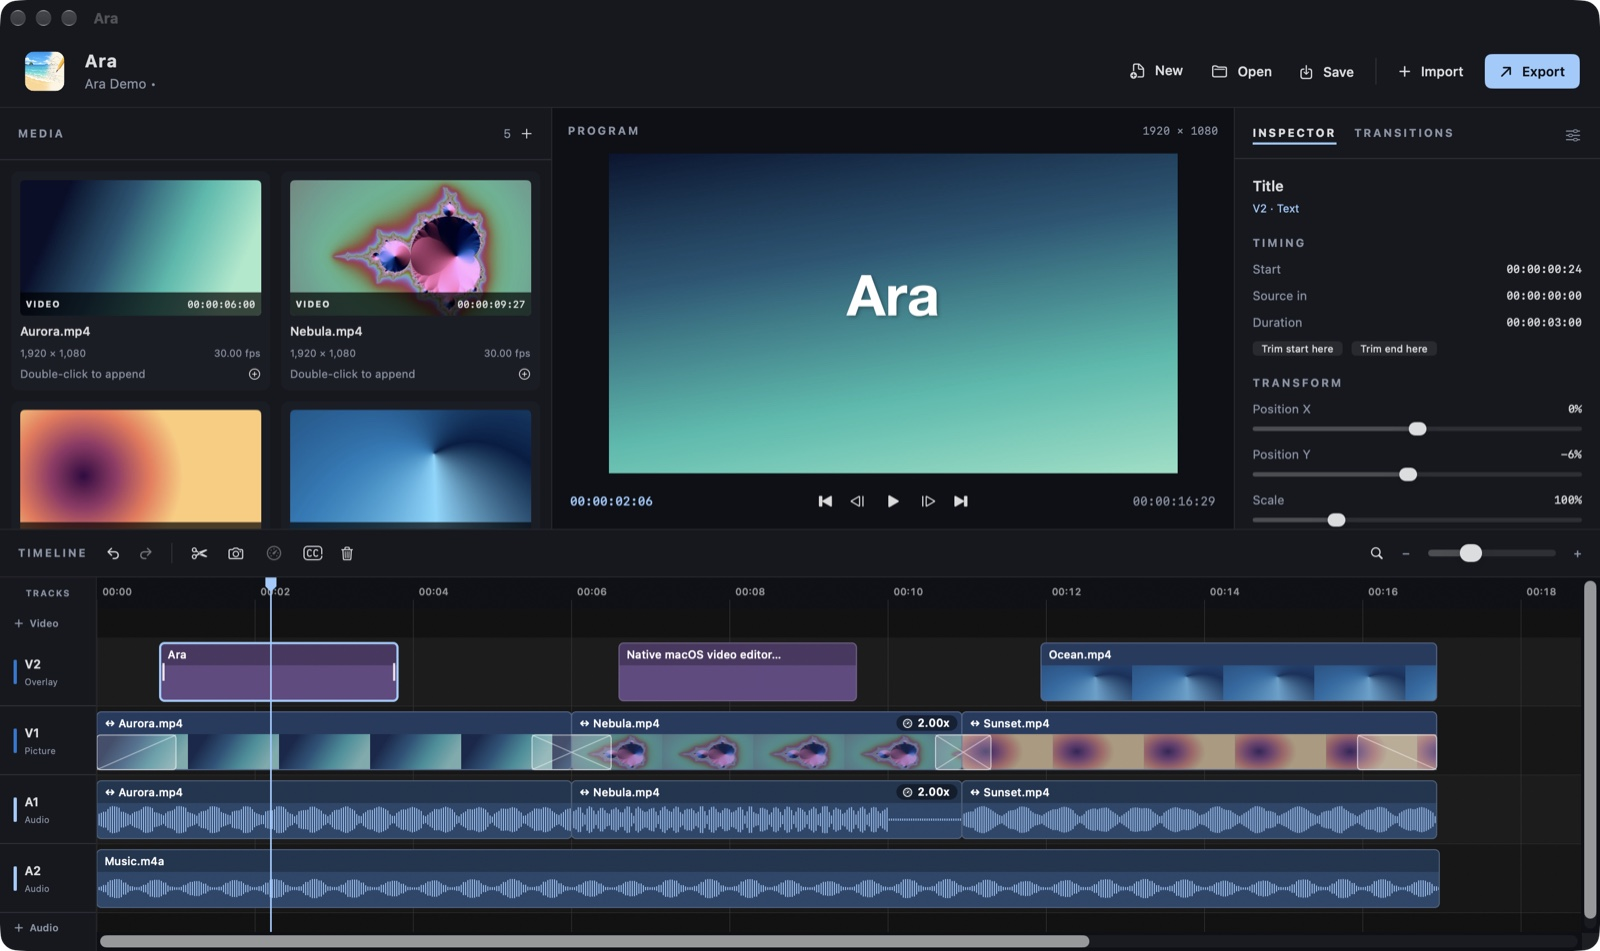
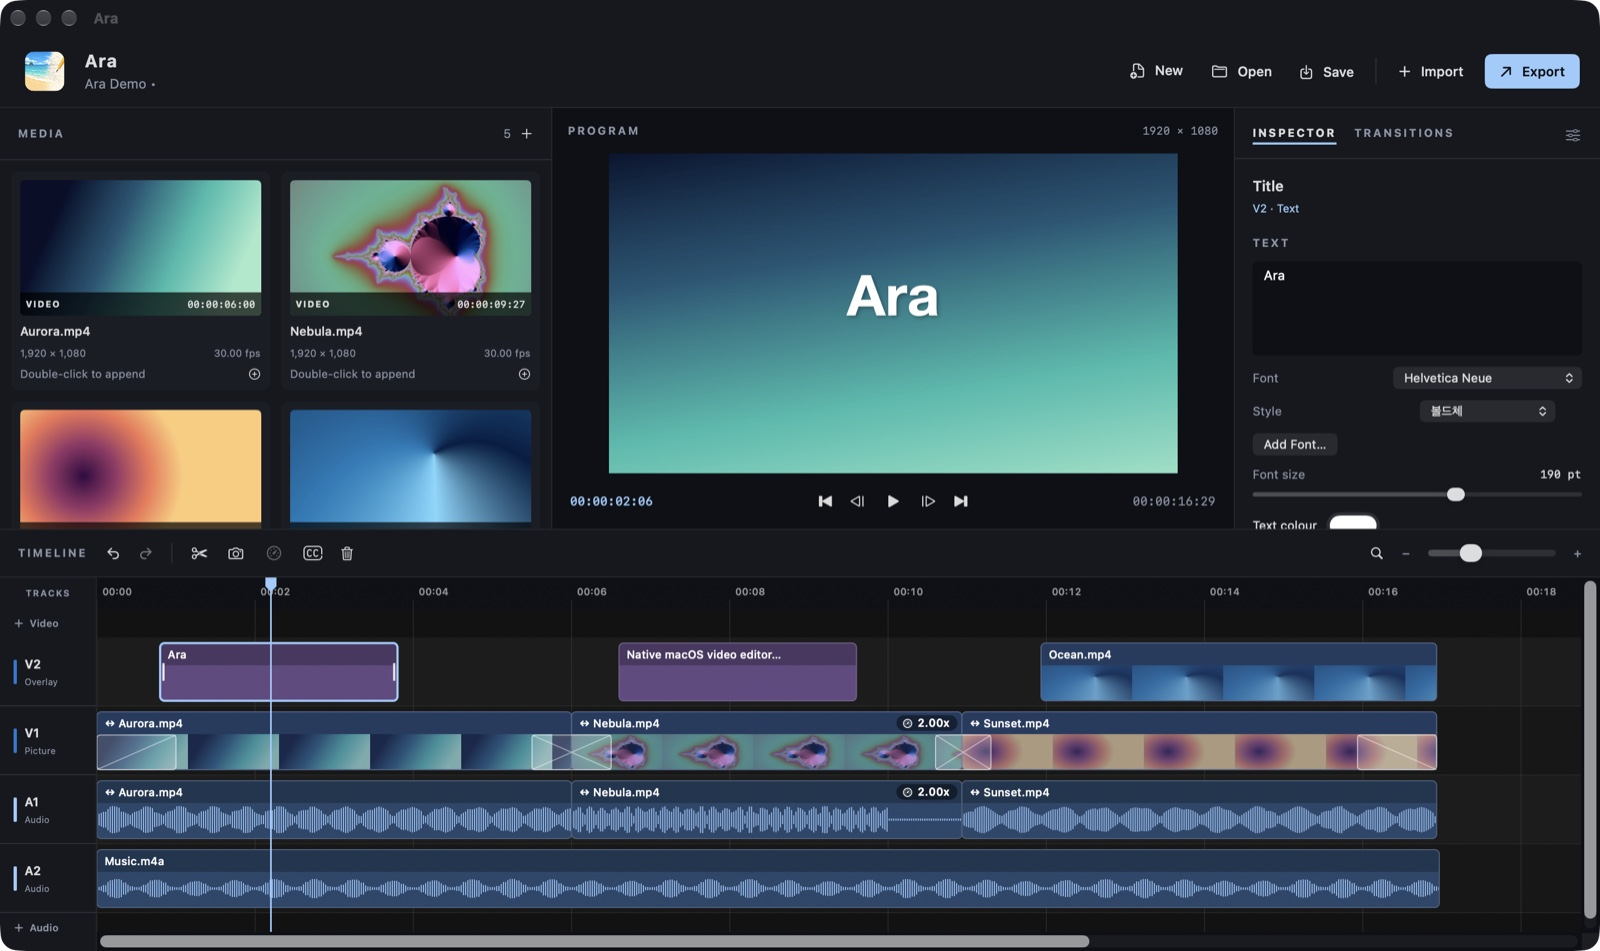
Update the README for multiple selection, rotation and the new shortcuts
Documents Shift-drag/Shift-click selection, group move, Cmd-X/Cmd-A, the
rotation handle, Return to finish a transform, timeline page turning and the
font menu previews; refreshes the editor, title and transform screenshots and
the test counts.

Changed region(s): [[0.7812, 0.244, 0.9375, 0.5794], [0.9375, 0.2744, 1.0, 0.3659], [0.9688, 0.4879, 1.0, 0.5489]]

diff --git a/README.md b/README.md
@@ -14,11 +14,12 @@ macOS 15 이상 / Apple Silicon용 로컬 영상 편집기. Swift 6, SwiftUI·Ap
 - **프로젝트 설정**: 이름, 화질(Full HD·4K), 화면비 5종(16:9·9:16·1:1·4:3·4:5), 프레임률 8종(23.976–60fps). 편집 중에도 바꿀 수 있고, 컷 경계는 새 프레임 격자에 맞춰진다.
 - **멀티 트랙 타임라인**: 영상·오디오 트랙을 종류별 최대 8개까지 쓴다. 영상의 원본 오디오는 연결 클립으로 함께 움직인다.
   - 편집: 이동·트림·분할·삭제·복사/붙여넣기, 스냅, Undo/Redo 100단계.
+  - 여러 클립 선택: 빈 트랙에서 Shift+드래그하거나 클립을 Shift+클릭해 고르고, 함께 옮기기·복사·잘라내기·붙여넣기·삭제한다.
 - **빈 구간 닫기**: 빈 트랙 공간을 더블클릭해 구간을 고르고 ⌘⌫로 뒤 클립을 당겨 붙인다.
 - **클립 속도**: 영상·오디오 클립을 0.25x–4x로 재생한다. 음높이는 유지된다.
 - **프레임 단위 탐색**: 눈금자나 빈 트랙을 누른 채 드래그해 스키밍한다. 클립 끝 5프레임 안에서는 끝 경계에 붙고, Force Touch 트랙패드 햅틱을 지원한다.
 - **인스펙터**: 위치·크기·회전·불투명도, 밝기·대비·채도, 볼륨·음소거를 조절한다. 재생 헤드 위치에서 클립 앞·뒤를 트림한다.
-- **미리보기에서 직접 변형**: 영상·이미지·텍스트를 더블클릭하고 드래그로 옮긴다. 크기는 모서리·핀치·⌥+스크롤로 바꾼다.
+- **미리보기에서 직접 변형**: 영상·이미지·텍스트를 더블클릭하고 드래그로 옮긴다. 크기는 모서리·핀치·⌥+스크롤로, 회전은 위쪽 핸들로 바꾼다.
 - **자막**: 한글 입력, 글꼴·굵기, 크기, 색, **외곽선**, **그림자**를 지원한다. TTF·OTF·TTC 폰트나 폰트가 든 ZIP을 추가해 쓸 수 있다. 4K 출력에서는 자막을 4K 해상도로 직접 그린다.
 - **화면 전환 11종**: 디졸브·모션·와이프·스타일로 나뉜다. 마우스를 올리면 미리 보여 주고, 컷이나 클립 끝에 드래그하면 적용된다. 길이는 타임라인 핸들로 조절한다.
 - **HDR 원본과 프록시**: HLG·PQ 영상을 SDR Rec.709로 변환해 편집한다. 1080p를 넘는 영상은 백그라운드에서 미리보기용 프록시를 만든다.
@@ -29,11 +30,11 @@ macOS 15 이상 / Apple Silicon용 로컬 영상 편집기. Swift 6, SwiftUI·Ap
 | | |
 |---|---|
 | ![시작 화면](docs/images/start.jpg) | ![자막 외곽선과 그림자](docs/images/titles.jpg) |
-| 시작 화면: 최근 프로젝트 카드 | 자막: 외곽선·그림자 인스펙터 |
+| 시작 화면: 최근 프로젝트 카드 | 자막: 텍스트·글꼴이 맨 위에 오는 인스펙터, 외곽선·그림자를 넣은 자막 |
 | ![화면 전환 목록](docs/images/transitions.jpg) | ![화면 전환 인스펙터](docs/images/transition-inspector.jpg) |
 | TRANSITIONS 탭: 타일을 타임라인에 드래그 | 전환 선택: 종류·방향·길이 |
 | ![미리보기 변형](docs/images/transform.jpg) | ![출력 설정](docs/images/export.jpg) |
-| 미리보기에서 PiP 직접 변형 | 출력: 비율·프레임률·해상도 |
+| 미리보기에서 PiP 직접 변형: 위쪽 핸들로 회전 | 출력: 비율·프레임률·해상도 |
 
 스크린샷의 영상은 모두 테스트용으로 만든 합성 영상이다.
 
@@ -70,14 +71,21 @@ open build/Ara.app
    - **＋ Video / ＋ Audio**로 트랙을 추가한다. 비어 있는 추가 트랙(V3·A3 이상)은 이름 옆 **✕**로 지운다.
 4. **편집**:
    - 클립 가운데를 끌어 이동하고 양끝 손잡이로 트림한다. 같은 종류의 다른 트랙으로 옮길 수 있고, 연결 클립도 짝 트랙으로 따라간다.
-   - 드래그는 클립 경계·재생 헤드·타임라인 시작에 스냅된다. **Shift**로 그 드래그만, **N**으로 전체 스냅을 끈다.
+   - 드래그는 클립 경계·재생 헤드·타임라인 시작에 스냅된다. 드래그하는 동안 **Shift**를 누르면 그 드래그만, **N**은 전체 스냅을 끈다. (드래그를 시작할 때 누른 Shift는 선택에 쓰인다.)
    - **⌘B**는 선택 클립을 재생 헤드에서 분할한다. 눈금자나 빈 트랙을 누른 채 드래그하면 스키밍한다.
+   - **여러 클립 선택**:
+     - 빈 트랙 공간에서 **Shift+드래그**하면 사각형에 닿는 클립이 모두 선택된다. 이미 선택된 클립에 더해진다.
+     - 클립을 **Shift+클릭**하면 선택에 넣거나 뺀다. **⌘A**는 모든 클립을 선택하고, **Esc**는 선택을 푼다.
+     - 선택한 클립 중 하나를 끌면 모두 같은 시간만큼 함께 움직인다(트랙은 그대로). 그냥 클릭하면 그 클립만 선택된다.
+     - **⌘C / ⌘X / ⌘V / Delete**가 선택한 클립 전부에 적용된다. 붙여넣을 때는 가장 앞 클립이 재생 헤드에 오고, 나머지는 원래 트랙과 간격을 유지한다.
+     - 여러 개를 선택하면 인스펙터에 개수와 범위, Copy·Cut·Delete가 나온다. 설정은 클립 하나씩 바꾼다.
+   - 재생 중 재생 헤드가 보이는 타임라인의 오른쪽 끝에 닿으면 다음 화면으로 넘어간다. 재생 중에 다른 곳으로 스크롤해 두었으면 끌어오지 않는다. 재생 헤드가 화면 밖에 있을 때 재생을 시작하면 그 위치를 먼저 보여 준다.
 5. **빈 구간 닫기**: 빈 트랙 공간을 더블클릭하면 그 구간이 선택되고, 인스펙터에 시작·끝·길이가 나온다.
    - **⌘⌫**(Timeline → Close Gap)는 같은 트랙의 뒤 클립과 연결 클립을 그 길이만큼 당긴다.
    - 당긴 결과가 다른 클립과 겹치면 아무것도 옮기지 않는다.
 6. **재생 속도**: 타임라인 툴바의 속도계 메뉴(0.25x–4x)나 인스펙터 **SPEED**로 바꾼다.
    - 원본 구간은 그대로 두고 타임라인 길이가 바뀐다. 속도를 바꾼 클립에는 `2.00x` 같은 배지가 붙는다.
-7. **인스펙터**: 클립을 선택하면 오른쪽 **INSPECTOR**에 섹션이 나온다.
+7. **인스펙터**: 클립을 선택하면 오른쪽 **INSPECTOR**에 섹션이 나온다. 자막 클립은 TEXT·OUTLINE·SHADOW가 맨 위에 온다(8번).
    - **TIMING**: 시작·원본 시작점·길이. **Trim start here / Trim end here**로 재생 헤드에서 트림한다.
    - **TRANSFORM**: 위치·크기(5–400%)·회전·불투명도
    - **COLOUR · SDR**: 밝기·대비·채도
@@ -85,6 +93,7 @@ open build/Ara.app
    - **Reset appearance**는 텍스트 내용만 남기고 나머지 설정을 모두 기본값으로 되돌린다: 변형, 색 보정, 볼륨·음소거, 글꼴·글자 크기·색, 외곽선·그림자. 볼륨·음소거는 연결된 클립에도 적용된다.
 8. **자막**: 타임라인 툴바의 **CC 아이콘 / ⇧⌘T**로 재생 헤드 위치에 3초 자막을 넣는다. 그 구간의 영상보다 위 트랙(최소 V2)에 놓인다.
    - **TEXT**: 내용(한글 입력), 글꼴(**Font**)·굵기(**Style**), 크기, 색을 정한다.
+   - Font·Style 메뉴는 각 항목을 그 글꼴로 보여 줘서 고르기 전에 모양을 볼 수 있다. 기호·이모지 폰트와 이름 글자가 없는 폰트(아랍어·히브리어 등)는 읽을 수 있게 시스템 글꼴로 보여 준다.
    - **Add Font…**나 **File → Add Fonts…**로 TTF·OTF·TTC 파일이나 폰트가 든 ZIP을 추가한다. 라이브러리·타임라인이나 시작 화면에 끌어다 놓아도 된다.
    - **OUTLINE**(두께·색), **SHADOW**(불투명도·거리·각도·흐림·색): 두께나 불투명도를 0보다 크게 하면 켜진다. 슬라이더 한 번 드래그가 Undo 한 번이다.
 9. **화면 전환**: 인스펙터 옆 **TRANSITIONS** 탭에서 고른다. 타일에 마우스를 올리면 미리보기가 재생된다.
@@ -93,7 +102,12 @@ open build/Ara.app
    - 전환을 클릭하면 인스펙터에서 종류·방향·길이를 바꾸고, **Delete**로 지운다.
 10. **미리보기 변형**: 재생 헤드 위치의 영상·이미지·텍스트를 미리보기에서 **더블클릭**하면 외곽선과 모서리 조절점이 나타난다.
     - 안쪽을 드래그하면 이동하고, 모서리를 드래그하면 비율을 유지해 크기를 바꾼다. 핀치나 **⌥+스크롤**은 중심 기준으로 크기를 바꾼다.
-    - 한 번의 드래그가 한 번의 Undo다. **Esc**로 닫는다.
+    - 위쪽 가운데의 **회전 핸들**을 돌리면 클립이 중심을 기준으로 돈다. 돌리는 동안 옆에 각도가 표시된다.
+      - **Shift**를 누르면 15° 단위로 돈다.
+      - 스냅(N)이 켜져 있으면 0°·±90°·180° 근처 2° 안에서 그 각도에 붙는다.
+      - 자막 그림자는 돌려도 화면 기준 방향을 유지한다.
+    - 한 번의 드래그가 한 번의 Undo다.
+    - **Return**(또는 Enter)이나 **Esc**로 변형 모드를 끝낸다. 드래그 도중이면 Return은 그 변경을 유지하고, Esc는 그 드래그를 되돌린다.
     - 캔버스 밖으로 나간 부분은 30% 불투명도로 보이고, 조절점은 캔버스 밖에서도 잡힌다.
 11. **저장**: **⌘S**로 `.framestudio` 프로젝트를 저장하고, **⇧⌘S**는 다른 이름으로 저장한다.
     - 원본 미디어는 복사하거나 고치지 않는다. 원본을 못 찾으면 라이브러리의 **Relink…**로 다시 연결한다.
@@ -121,17 +135,22 @@ open build/Ara.app
 | ⌥← / ⌥→ | 선택 클립의 처음 / 마지막 프레임 |
 | ⌘B | 선택 클립(연결 오디오 포함) 분할 |
 | ⇧⌘T | 재생 헤드 위치에 자막 추가 |
-| Delete | 선택 클립(연결 오디오 포함) 또는 선택한 전환 삭제 |
+| Delete | 선택 클립(여러 개, 연결 오디오 포함) 또는 선택한 전환 삭제 |
 | 빈 트랙 더블클릭 → ⌘⌫ | 빈 구간 선택 → 뒤 클립을 당겨 닫기 |
-| ⌘C / ⌘V | 선택 클립 복사 / 재생 헤드 위치에 붙여넣기 |
+| ⌘C / ⌘X / ⌘V | 선택 클립 복사 / 잘라내기 / 재생 헤드 위치에 붙여넣기(여러 개는 트랙·간격 유지) |
+| 빈 트랙에서 Shift + 드래그 | 사각형으로 여러 클립 선택(기존 선택에 추가) |
+| Shift + 클릭(클립) | 선택에 추가 / 빼기 |
+| ⌘A | 모든 클립 선택 |
 | ⌘Z / ⇧⌘Z | Undo / Redo |
 | N | 스냅 켜기 / 끄기 |
-| Shift + 드래그 | 그 드래그만 스냅 해제 |
+| 드래그 중 Shift | 그 드래그만 스냅 해제 |
 | 눈금자·빈 트랙 클릭·드래그 | 재생 헤드 이동 / 누르는 동안 스키밍 |
 | 핀치 / 타임라인 툴바 −·+ 슬라이더 | 타임라인 확대·축소 |
 | 미리보기 더블클릭 | 변형 모드 |
+| 회전 핸들 드래그 / + Shift (변형 모드) | 클립 회전 / 15° 단위 회전 |
 | 핀치 / ⌥ + 스크롤(변형 모드) | 클립 크기 조절 |
-| Esc | 변형 모드 닫기, 드래그 취소, 빈 구간·전환 선택 해제 |
+| Return / Enter(변형 모드) | 변형 모드 끝내기(변경 유지) |
+| Esc | 변형 모드 닫기, 드래그 취소, 빈 구간·전환·여러 클립 선택 해제 |
 
 트랙패드 햅틱은 **Timeline → Trackpad Haptics**로 끈다. 시스템 설정의 **트랙패드 → 세게 클릭 및 햅틱 피드백**도 켜져 있어야 한다.
 
@@ -171,13 +190,13 @@ open build/Ara.app
 | `Sources/FrameMedia` | 가져오기·북마크·캐시, 1080p 프록시, AVComposition 생성, Core Image 합성과 전환 렌더, HDR 변환, 자막·폰트, PNG 스냅샷, MP4 출력 |
 | `Sources/FrameStudio` | SwiftUI 화면(시작 화면, 새 프로젝트·출력 시트, 라이브러리·인스펙터·전환 패널), AppKit 타임라인·플레이어·미리보기 변형, 상태 관리 |
 | `Sources/FrameProbe` | 실제 미디어로 파이프라인 전체를 확인하는 통합 검증 실행기 |
-| `Tests/FrameCoreTests` | 모델·편집·검증 XCTest 97개 |
-| `Tests/FrameStudioTests` | AppKit 입력·그리기, 폰트, 자막 렌더 XCTest 38개 |
+| `Tests/FrameCoreTests` | 모델·편집·검증 XCTest 104개 |
+| `Tests/FrameStudioTests` | AppKit 입력·그리기, 폰트, 자막 렌더 XCTest 53개 |
 | `scripts/` | 앱 빌드(`build-app.sh`), 픽스처 생성(`make-fixtures.sh`), 전체 검증(`validate.sh`), FFmpeg 기반 독립 분석(`verify-outputs.py`) |
 
 ## 검증
 
-단위 테스트(135개)에는 외부 도구가 필요 없다.
+단위 테스트(157개)에는 외부 도구가 필요 없다.
 
 ```sh
 DEVELOPER_DIR=/Applications/Xcode.app/Contents/Developer swift test --arch arm64
@@ -216,7 +235,7 @@ DEVELOPER_DIR=/Applications/Xcode.app/Contents/Developer swift run --arch arm64 
 ## 현재 제한
 
 - **프리셋만 지원**: 화면비·프레임률·화질은 위 프리셋만 있고, 임의 픽셀 크기나 프레임률 입력은 없다. 타임코드는 NDF만 표시한다.
-- **선택**: 한 번에 한 프로젝트, 한 클립(연결 오디오 포함)만 선택한다.
+- **선택**: 한 번에 한 프로젝트만 연다. 여러 클립을 선택해도 인스펙터 설정·분할·속도·변형은 한 클립씩이다. 여러 클립을 함께 옮길 때는 시간만 바뀌고 트랙은 그대로다. 복사·붙여넣기에는 클립 사이의 전환이 따라가지 않는다.
 - **트랙**: 순서를 바꾸는 UI가 없다. 기본 V1·V2·A1·A2는 지울 수 없다.
 - **편집**:
   - 같은 트랙에 겹쳐 놓으면 거부한다(덮어쓰기 없음). 리플은 빈 구간 닫기만 있다.
